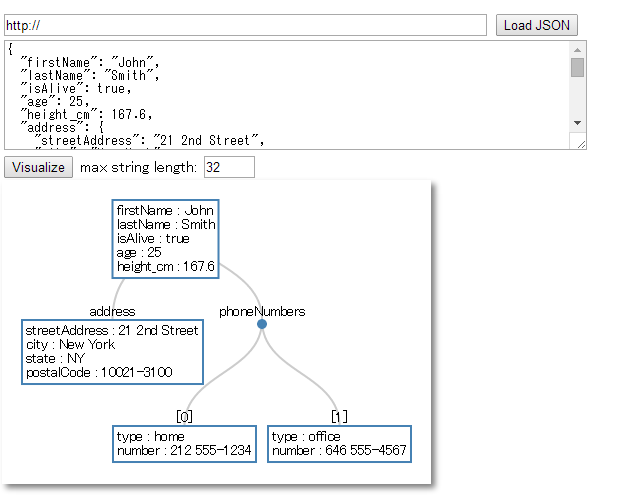
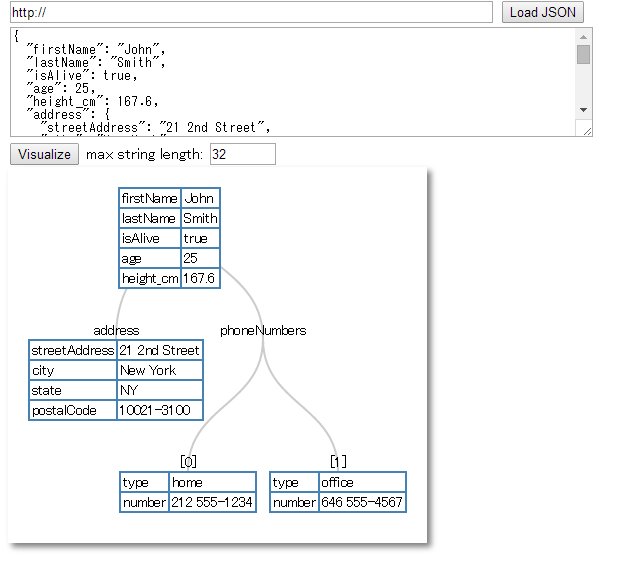
change it to use html table instead of svg rect and text

Changed region(s): [[0.0, 0.0, 0.9485, 0.988], [0.0, 0.9581, 0.0306, 0.988]]

diff --git a/js/vtree.js b/js/vtree.js
@@ -18,8 +18,6 @@ var vtree = (function ()
         MARGIN = 20,
         NODE_MARGIN = 6,
         RECT_MARGIN = 4,
-        TEXT_TOP = 10,
-        STR_PX = 14,
 
         DEFAULT_MAX_STRING_LEN = 32,
 
@@ -102,6 +100,23 @@ var vtree = (function ()
                 }
             }
         }
+    }
+
+
+
+    function tree2array( root, f )
+    {
+        var a = [];
+
+        if ( ! f ) {
+            f = function ( d ) { return d; };
+        }
+
+        breadthFirstTraverse( root, function ( d ) {
+            a.push( f( d ) );
+        } );
+
+        return a;
     }
 
 
@@ -310,15 +325,8 @@ var vtree = (function ()
 
 
 
-    function createNameStr ( nameSet, d ) {
-        var s;
-
-        if ( nameSet.length <= 1 ) {
-            s = String() + d.val;
-
-        } else {
-            s = [String(), d.name, ' : ', d.val].join( '' );
-        }
+    function createValStr ( d ) {
+        var s = String() + d.val;
 
         d._vtName = s;
 
@@ -350,7 +358,7 @@ var vtree = (function ()
             d._vtNameTbl = [];
         }
 
-        d._vtNameTbl.push( {name: name, val: val} );
+        d._vtNameTbl.push( [{ val: name }, { val: val } ] );
     }
 
 
@@ -538,8 +546,8 @@ var vtree = (function ()
 
     function vtreeConverts ( text, container, userConf )
     {
-        var treeData, width, height, nameSet, linkNameSet,
-            svg, svgGroup, tooltip, tree, diagonal;
+        var treeData, width, height, nameSet, linkNameSet, svgRect,
+            container3, svg, svgGroup, tooltip, tree, diagonal;
 
 
         configVtree( userConf );
@@ -547,10 +555,6 @@ var vtree = (function ()
 
         function onMouseOver ( d )
         {
-            if ( ! d._vtIsAbbreviated ) {
-                return;
-            }
-
             tooltip.transition()
                 .duration( 200 )
                 .style( 'opacity', 0.9 );
@@ -579,45 +583,13 @@ var vtree = (function ()
 
         function update ( root )
         {
-            var i, nodes, links, node, nodeEnter, nodeName, link, depthMaxRow = [], curMaxId = 0, lastWidth, lastHeight;
+            var i, arrayData, nodes, links, node, nodeEnter, link,
+                tables, rows,
+                depthMaxHeight = [], curMaxId = 0, lastWidth, lastHeight;
+
 
             nodes = tree.nodes( root ).reverse();
             links = tree.links( nodes );
-
-
-            // calc depthMaxRow
-            breadthFirstTraverse( root, function ( d ) {
-                if ( depthMaxRow[d.depth] === undefined ) {
-                    depthMaxRow[d.depth] = 1;
-                }
-
-                if ( d._vtNameTbl && d._vtNameTbl.length > depthMaxRow[d.depth] ) {
-                    depthMaxRow[d.depth] = d._vtNameTbl.length;
-                }
-            } );
-
-
-            nodes.forEach( function ( d ) {
-                var i, extY = 0;
-
-                if ( d.depth > 0 ) {
-                    for ( i = 0; i < d.depth; i++ ) {
-                        extY += depthMaxRow[i] * STR_PX;
-                    }
-                }
-
-                d.y = extY + (d.depth * 50);
-            } );
-
-
-            // calc lastHeight
-            lastHeight = 0;
-
-            for ( i = 0; i < depthMaxRow.length; i++ ) {
-                lastHeight += depthMaxRow[i] * STR_PX;
-            }
-
-            lastHeight +=  (depthMaxRow.length - 1) * 50 + MARGIN * 2 + 10;
 
 
             node = svgGroup.selectAll( 'g.vtree-node' )
@@ -645,54 +617,92 @@ var vtree = (function ()
                 } );
 
 
-            nodeEnter.append( 'rect' );
+            arrayData = tree2array( root );
 
 
-            // name
-            nodeName = nodeEnter.append( 'text' )
-                .attr( 'y', TEXT_TOP )
-                .attr( 'dy', '.35em' )
-                .attr( 'class', 'vtree-name' )
-                .style( 'fill-opacity', 1 );
-
-
-            // name list
-            nodeName.selectAll( 'tspan' )
-                .data( function ( d ) { return d._vtNameTbl || []; } )
+            tables = container3.selectAll( 'table.vtree-table' )
+                .data( arrayData )
                 .enter()
-                .append( 'tspan' )
-                .text( function ( d ) {
-                    return createNameStr( nameSet, d );
+                .append( 'table' )
+                .attr( 'class', 'vtree-table' );
+
+
+            rows = tables.selectAll( 'tr' )
+                .data( function ( d ) {
+                    return d._vtNameTbl || [];
                 } )
-                .attr( 'x', 0 )
-                .attr( 'dy', function ( d, i ) { if ( i !== 0 ) { return '1em'; } } )
-                .on( 'mouseover', onMouseOver )
-                .on( 'mouseout', onMouseOut );
+                .enter()
+                .append( 'tr' );
 
 
-            nodeName
-                .each( function ( d ) {
-                    var bbox = this.getBBox();
-
-                    d._vtNameWidth = bbox.width + RECT_MARGIN * 2;
-
-                    if ( d._vtCaptionWidth ) {
-                        d._vtWidth = Math.max( d._vtCaptionWidth, d._vtNameWidth );
-                    } else {
-                        d._vtWidth = d._vtNameWidth;
+            rows.selectAll( 'td' )
+                .data( function ( d ) { return d; } )
+                .enter()
+                .append( 'td' )
+                .text( function ( d, i ) {
+                    if ( i === 1 ) {
+                        return createValStr( d );
                     }
 
-                    d._vtHeight = bbox.height + RECT_MARGIN * 2;
+                    return d.val;
                 } )
-                .attr( 'x', function ( d ) { return -d._vtNameWidth / 2 + 4; } );
+                .each( function ( d, i ) {
+                    if ( i === 0 ) {
+                        d3.select( this ).attr( 'class', 'vtree-name-cell' );
+                    } else if ( i === 1 ) {
+                        d3.select( this ).attr( 'class', 'vtree-val-cell' );
+                    }
+                } )
+                .filter( function ( d ) { return d._vtIsAbbreviated; } )
+                    .on( 'mouseover', onMouseOver )
+                    .on( 'mouseout', onMouseOut );
 
 
-            nodeName.selectAll( 'tspan' )
-                .attr( 'x', function () {
-                    var parent = this.parentNode.__data__;
+            if ( nameSet.length <= 1 ) {
+                rows.selectAll( '.vtree-name-cell' )
+                    .style( 'display', 'none' );
+            }
 
-                    return -parent._vtNameWidth / 2 + 4;
-                } );
+            tooltip = container3.append( 'div' )
+                .attr( 'class', 'vtree-tooltip' )
+                .style( 'opacity', 0 );
+
+
+            tables.each( function ( d ) {
+                d._vtNameWidth = this.offsetWidth;
+
+                if ( d._vtCaptionWidth ) {
+                    d._vtWidth = Math.max( d._vtCaptionWidth, d._vtNameWidth );
+                } else {
+                    d._vtWidth = d._vtNameWidth;
+                }
+
+                d._vtHeight = this.offsetHeight;
+            } );
+
+
+            // calc depthMaxHeight
+            breadthFirstTraverse( root, function ( d ) {
+                if ( depthMaxHeight[d.depth] === undefined ) {
+                    depthMaxHeight[d.depth] = 0;
+                }
+
+                if ( d._vtHeight > depthMaxHeight[d.depth] ) {
+                    depthMaxHeight[d.depth] = d._vtHeight;
+                }
+            } );
+
+
+            nodes.forEach( function ( d ) {
+                var i, extY = 0;
+
+                for ( i = 0; i < d.depth; i++ ) {
+                    extY += depthMaxHeight[i];
+                }
+
+                d.y = extY + (d.depth * 50);
+            } );
+
 
 
             lastWidth = calcNodePos( treeData );
@@ -704,15 +714,24 @@ var vtree = (function ()
                 } );
 
 
-            nodeEnter.select( 'rect' )
-                .attr( 'x', function ( d ) { return -d._vtNameWidth / 2; } )
-                .attr( 'width', function ( d ) { return d._vtNameWidth; } )
-                .attr( 'height', function ( d ) { return d._vtHeight; } )
-                .style( 'fill', function ( d ) { return d._vtColor; } )
-                .filter( function ( d ) { return d._vtIsDummy; } )
-                    .attr( 'class', 'vtree-dummy-array' )
-                    .attr( 'rx', 10 )
-                    .attr( 'ry', 10 );
+            // calc lastHeight
+            lastHeight = 0;
+
+            for ( i = 0; i < depthMaxHeight.length; i++ ) {
+                lastHeight += depthMaxHeight[i];
+            }
+
+            lastHeight += MARGIN * 2 + (depthMaxHeight.length - 1) * 50 + 10;
+
+
+            tables
+                .attr( 'left', function ( d ) { return -d._vtNameWidth / 2; } )
+                .style( 'left', function ( d ) {
+                    return (svgRect.left + MARGIN + d.x - d._vtNameWidth / 2) + 'px';
+                } )
+                .style( 'top',  function ( d ) {
+                    return (svgRect.top + MARGIN + d.y) + 'px';
+                } );
 
 
             link = svgGroup.selectAll( 'path.vtree-link' )
@@ -751,16 +770,19 @@ var vtree = (function ()
         diagonal = d3.svg.diagonal()
             .projection( function(d) { return [d.x, d.y]; } );
 
-        svg = d3.select( container ).append( 'svg' )
+
+        container3 = d3.select( container );
+
+
+        svg = container3.append( 'svg' )
             .attr( 'width', width + MARGIN * 2 )
             .attr( 'height', height + MARGIN * 2 );
 
         svgGroup = svg.append( 'g' )
             .attr( 'transform', ['translate(' + MARGIN + ',' + MARGIN + ')'].join( '' ) );
 
-        tooltip = d3.select( container ).append( 'div' )
-            .attr( 'class', 'vtree-tooltip' )
-            .style( 'opacity', 0 );
+
+        svgRect = container.getBoundingClientRect();
 
         update( treeData );
 

diff --git a/index.html b/index.html
@@ -53,7 +53,7 @@ window.onload = function () {
 
 <h1>JSON Tree Visualizer</h1>
 
-<p style="text-align: right;">Ver 0.0721 <a href="https://github.com/ivan111/vtree">github</a></p>
+<p style="text-align: right;">Ver 0.0722 <a href="https://github.com/ivan111/vtree">github</a></p>
 
 <p style="color: red;">This software converts JSON strings into tree diagrams. For example, it is used to show you AST(Abstract Syntax Tree) as tree diagrams for debugging. In that case, offcourse, you need to translate AST into JSON.</p>
 
@@ -97,7 +97,7 @@ window.onload = function () {
 <div>
 <input id="visualize-button" type="button" value="Visualize">
 <label>max string length: 
-<input id="max-string-len" type="text" size="3" value="32">
+<input id="max-string-len" type="number" min="1" max="256" step="10" size="3" value="32">
 </label>
 </div>
 

diff --git a/css/vtree.css b/css/vtree.css
@@ -6,19 +6,8 @@ svg {
 }
 
 
-svg .vtree-node rect {
-    fill: #fff;
-    stroke: steelblue;
-    stroke-width: 2px;
-}
-
-
-svg rect.vtree-dummy-array {
-    fill: steelblue;
-}
-
-
-svg .vtree-node text {
+svg .vtree-node text,
+table.vtree-table {
     font: 14px sans-serif;
 }
 
@@ -29,6 +18,26 @@ svg .vtree-link {
     stroke-width: 2px;
 }
 
+
+table.vtree-table,
+table.vtree-table th,
+table.vtree-table td {
+    border: 2px solid steelblue;
+    background-color: white;
+}
+
+
+table.vtree-table {
+    position: absolute;
+    border-spacing: 0.5em;
+    border-collapse: collapse;
+}
+
+
+table.vtree-table th,
+table.vtree-table td {
+    padding: 2px;
+}
 
 .vtree-tooltip {
     position: absolute;
